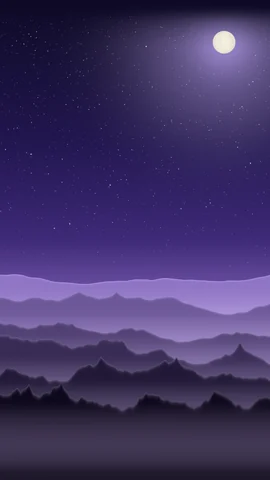
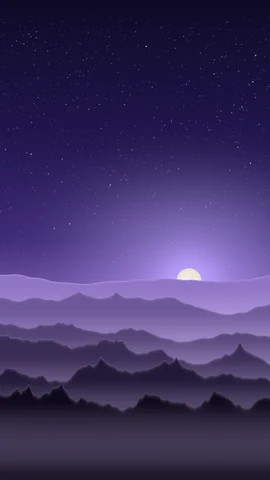
Version 2.2.7 (54): no white line while scrolling home; calm tops for Nebula and Owl Night
- The bars slide away as one animation and the page as another, so for
  a frame the row between them was only partly covered and the light
  window background showed through - a white hairline over a dark
  wallpaper. What is behind them now takes the top bar's colour.
- Nebula's clouds fade out toward the top, into plain space, so the bar
  takes the sky's own near-black instead of a purple slab. Owl Night's
  moon now rises behind the far ridge, below every word on home; the sky
  above it is plain. Edge colours are the median of the top rows, so
  stars do not tint them.
- See all on dark wallpapers is white with a soft shadow; every word on
  every wallpaper measured at 3.2:1 or better against what is behind it.

Claude-Session: https://claude.ai/code/session_012jyd5igvHmmReTAELHUnRC

Changed region(s): [[0.4148, 0.0, 1.0, 0.3125], [0.2963, 0.375, 1.0, 0.5938]]

diff --git a/app/src/main/java/com/search/browser/MainActivityBars.kt b/app/src/main/java/com/search/browser/MainActivityBars.kt
@@ -448,6 +448,11 @@ internal fun MainActivity.plainBars(url: String?, animate: Boolean) {
     setBarTint(w?.get(0), w?.get(1), animate)
 }
 
+/** Behind the bars when they wear no page's colours: Night Owl's wash, else the theme's background. */
+internal fun MainActivity.rootBackdrop(): Int =
+    if (nightOwl) binding.topBar.surfaceColor
+    else android.util.TypedValue().also { theme.resolveAttribute(android.R.attr.colorBackground, it, true) }.data
+
 /** Eases both bars to [top] / [bottom] (null: their plain surface). */
 internal fun MainActivity.setBarTint(top: IntArray?, bottom: IntArray?, animate: Boolean) {
     if (top?.contentEquals(topTint) ?: (topTint == null) &&
@@ -461,6 +466,12 @@ internal fun MainActivity.setBarTint(top: IntArray?, bottom: IntArray?, animate:
     val toBottom = bottom ?: plainBottom
     topTint = top
     bottomTint = bottom
+    // What shows through the seam while the top bar and the page slide apart.
+    // hideBars and showBars move them as two animations, so for a frame the
+    // row between them is only partly covered, and whatever is behind both
+    // shows through: the window's light grey, a white hairline over a dark
+    // wallpaper. Behind them now is the bar's own colour.
+    binding.rootView.setBackgroundColor(top?.get(1) ?: rootBackdrop())
     applyBarForeground()
     if (!animate || !animationsOn()) {
         binding.topBar.tint = top

diff --git a/app/src/main/assets/home.html b/app/src/main/assets/home.html
@@ -732,7 +732,7 @@
   html.wp-dark .shield b, html.wp-dark .sec-title h2 { color:#FFFFFF; }
   html.wp-light .shield b, html.wp-light .sec-title h2 { color:#16151B; }
   html.wp-dark .sec-title h2 { text-shadow:0 1px 3px rgba(0,0,0,0.5); }
-  html.wp-dark .see-all { color:rgba(255,255,255,0.92); }
+  html.wp-dark .see-all { color:#FFFFFF; text-shadow:0 1px 3px rgba(0,0,0,0.5); }
   html.wp-light .see-all { color:var(--ink-l); }
   html.wp-dark .tile .fav:not(.has-icon) { background:rgba(255,255,255,0.14); color:#FFFFFF; }
   html.wp-light .tile .fav:not(.has-icon) { background:rgba(255,255,255,0.6); }

diff --git a/app/src/main/java/com/search/browser/HomeWallpapers.kt b/app/src/main/java/com/search/browser/HomeWallpapers.kt
@@ -31,7 +31,7 @@ object HomeWallpapers {
         Wallpaper("ocean_dusk", "Ocean Dusk", true, 0xFF1A1238.toInt(), 0xFF251C27.toInt()),
         Wallpaper("aurora", "Aurora", true, 0xFF040916.toInt(), 0xFF092723.toInt()),
         Wallpaper("bokeh", "City Lights", true, 0xFF0C081A.toInt(), 0xFF180E30.toInt()),
-        Wallpaper("nebula", "Nebula", true, 0xFF39234E.toInt(), 0xFF3A3069.toInt())
+        Wallpaper("nebula", "Nebula", true, 0xFF020205.toInt(), 0xFF403372.toInt())
     )
 
     fun byId(id: String?): Wallpaper? = ALL.firstOrNull { it.id == id }

diff --git a/design/wallpapers/scenes.py b/design/wallpapers/scenes.py
@@ -27,8 +27,8 @@ def mountains(c, img, layers, seed, haze, near, fog, v0, dv, amp0, damp, f0, df,
 
 def owl_night(c):
     img = ramp(c.v, [(0, '#0E0A26'), (0.3, '#221650'), (0.5, '#3E2A78'), (0.62, '#7456A8'), (0.7, '#A487CC')])
-    mx, my, mr = 0.83, 0.088, 0.042
-    img = img + hexlin('#B9A2F0') * ((0.32 * glow(c, mx, my, 0.20) + 0.32 * glow(c, mx, my, 0.07)) * smooth(0.0, 0.11, c.v))[..., None]
+    mx, my, mr = 0.70, 0.585, 0.046
+    img = img + hexlin('#B9A2F0') * ((0.45 * glow(c, mx, my, 0.24) + 0.4 * glow(c, mx, my, 0.08)) * smooth(0.22, 0.5, c.v))[..., None]
     sky_mask = 1 - smooth(0.42, 0.64, c.v)
     d = np.sqrt(((c.u - mx)) ** 2 + ((c.v - my) * c.aspect) ** 2)
     img = stars(c, img, int(2600 * c.s * c.s), 0.62, 11, mag=(0.04, 1.1), mask=sky_mask * smooth(mr * 1.6, mr * 3.5, d) * smooth(0.02, 0.07, c.v))
@@ -223,7 +223,7 @@ def nebula(c):
     n1 = fbm(Perlin(102), wx * 2.5, wy * 2.5, 6) * 0.5 + 0.5
     n2 = fbm(Perlin(103), wx * 4.0 + 3, wy * 4.0, 5) * 0.5 + 0.5
     img = ramp(c.v, [(0, '#03030A'), (0.5, '#070514'), (1, '#04030C')])
-    band = np.exp(-((c.u - 0.3 - 0.35 * c.v) ** 2) / 0.08)
+    band = np.exp(-((c.u - 0.3 - 0.35 * c.v) ** 2) / 0.08) * smooth(0.05, 0.3, c.v)
     fil = (1 - np.abs(fbm(Perlin(108), wx * 6, wy * 6, 5))) ** 6
     img = img + hexlin('#6A3BD1') * (smooth(0.45, 0.85, n1) ** 1.5 * band * 1.1)[..., None]
     img = img + hexlin('#C77DFF') * (fil * smooth(0.4, 0.8, n1) * band * 0.9)[..., None]

diff --git a/design/wallpapers/wplib.py b/design/wallpapers/wplib.py
@@ -88,7 +88,7 @@ def edges(c, img, top_band=0.05, bottom_band=0.04):
     """Top and bottom rows become flat colours (the bars' colours), eased in, so the bars meet the page without a seam
     whatever the crop. Returns the image and the two colours as #hex."""
     ti = int(top_band * c.H); bi = int((1 - bottom_band) * c.H)
-    top = img[:3].reshape(-1, 3).mean(0); bot = img[-3:].reshape(-1, 3).mean(0)
+    top = np.median(img[:3].reshape(-1, 3), 0); bot = np.median(img[-3:].reshape(-1, 3), 0)   # median: a star is not the sky
     wt = 1 - smooth(0.0, top_band, c.v); wb = smooth(1 - bottom_band, 1.0, c.v)
     img = over(img, top, wt); img = over(img, bot, wb)
     tohex = lambda l: '#%02X%02X%02X' % tuple(int(round(float(x) * 255)) for x in l2s(l))

diff --git a/HANDOFF.md b/HANDOFF.md
@@ -2,9 +2,10 @@
 
 Internal working notes. Not user-facing. Keep updated as state changes.
 
-## Current state (as of versionCode 53)
+## Current state (as of versionCode 54)
 
-- **Latest version:** 2.2.6, versionCode 53. Since 2.2.5 (52): home wallpapers. Settings > Customize your Search > Wallpaper: Plain (home's own background, the default) or one of eight scenes - Owl Night, Dawn Hills, Above the Clouds, Silk, Ocean Dusk, Aurora, City Lights, Nebula - rendered from code at 4K (`design/wallpapers`: numpy, OKLab gradients, fractal noise, atmospheric perspective; no AI). Shipped in `assets/wallpapers` as WebP: 2160x3840, 1440x2560 and a 270x480 thumbnail each (3.8 MB in all; AAB 8.7 -> 12.7 MB). WebP bands 8-bit gradients, so each file carries a soft grain (sigma 1.3, 1px) that survives the encoder - none in the flat top/bottom bands. `HomeWallpapers` is the registry (id, name, tone, top and bottom colours); `Settings.HOME_WALLPAPER` ("none" default); getConfig `wallpaper`; `homeWash` gives the bars the wallpaper's flat edge colours in every mode (seam <= 3 levels, measured); `applyAccentTints` pushes `__setWallpaper` on resume so an open home takes a new choice at once; home.html also re-reads it in `syncMode`. home.html: `html.wp` lays the image fixed behind the page (cover, anchored top), in Explore, Focus and Zen; Night Owl keeps its sky; the wash and Zen's drifting lights are off on a wallpaper, Zen's frosted box and halo stay. Words on the wallpaper follow its tone, not the phone's theme (`wp-dark`/`wp-light`: wordmark, tile labels, Blocked this week, Top Stories, See all, letter tiles, Add tile, Zen's box). The page picks the 1440 file when the screen's long side is <= 2816 device px (a low-end phone decodes 15 MB, not 33). Contrast of every on-wallpaper word measured against the real pixels: >= 3.28:1 everywhere (most 5-16). Picker in SectionActivity.buildWallpapers (thumbnails, accent ring on the one in use).
+- **Latest version:** 2.2.7, versionCode 54. Since 2.2.6 (53): (1) A white hairline between the top bar and home while scrolling: hideBars/showBars slide the bar and the page as two animations, so for a frame the row between them is only partly covered and the root's background showed through - the theme's light grey, invisible on the old grey home, a white line over a dark wallpaper. `setBarTint` now paints `rootView` in the top bar's middle colour (`rootBackdrop()` when the bars are plain: Night Owl's wash or colorBackground). (2) Nebula and Owl Night's tops: the flat top colour (the bars' colour) was the mean of a busy top row - Nebula's purple clouds, a navy that stepped into Owl Night's moon glow. Nebula's clouds now fade out toward the top (plain space, bar #020205); Owl Night's moon rises behind the far ridge (0.70, 0.585), its light kept low, so the sky above is plain and nothing sits behind home's words. `edges()` takes the median, not the mean (a star is not the sky). Dark wallpapers' See all is white with a shadow. Re-measured: all 32 text checks >= 3.23:1; seams <= 3 levels; 48 renders clean.
+- **Previous:** 2.2.6, versionCode 53. Since 2.2.5 (52): home wallpapers. Settings > Customize your Search > Wallpaper: Plain (home's own background, the default) or one of eight scenes - Owl Night, Dawn Hills, Above the Clouds, Silk, Ocean Dusk, Aurora, City Lights, Nebula - rendered from code at 4K (`design/wallpapers`: numpy, OKLab gradients, fractal noise, atmospheric perspective; no AI). Shipped in `assets/wallpapers` as WebP: 2160x3840, 1440x2560 and a 270x480 thumbnail each (3.8 MB in all; AAB 8.7 -> 12.7 MB). WebP bands 8-bit gradients, so each file carries a soft grain (sigma 1.3, 1px) that survives the encoder - none in the flat top/bottom bands. `HomeWallpapers` is the registry (id, name, tone, top and bottom colours); `Settings.HOME_WALLPAPER` ("none" default); getConfig `wallpaper`; `homeWash` gives the bars the wallpaper's flat edge colours in every mode (seam <= 3 levels, measured); `applyAccentTints` pushes `__setWallpaper` on resume so an open home takes a new choice at once; home.html also re-reads it in `syncMode`. home.html: `html.wp` lays the image fixed behind the page (cover, anchored top), in Explore, Focus and Zen; Night Owl keeps its sky; the wash and Zen's drifting lights are off on a wallpaper, Zen's frosted box and halo stay. Words on the wallpaper follow its tone, not the phone's theme (`wp-dark`/`wp-light`: wordmark, tile labels, Blocked this week, Top Stories, See all, letter tiles, Add tile, Zen's box). The page picks the 1440 file when the screen's long side is <= 2816 device px (a low-end phone decodes 15 MB, not 33). Contrast of every on-wallpaper word measured against the real pixels: >= 3.28:1 everywhere (most 5-16). Picker in SectionActivity.buildWallpapers (thumbnails, accent ring on the one in use).
 - **Previous:** 2.2.5, versionCode 52. Since 2.2.4 (51), no user-visible change - the build and the code's shape: (1) `MainActivity.kt` split (11,366 -> 5,787 lines): 254 feature functions moved verbatim into twelve `MainActivity<Area>.kt` files as extension functions (see Config / references, "Where the code lives"); moved code needed only Context's inherited constants spelled out (`android.content.Context.DOWNLOAD_SERVICE` etc., 15 places). All 112 ad-section members byte-identical; compiler warnings identical before and after; no extension shadowed by a member. (2) AGP 8.9.1 -> 8.13.2, Gradle 8.11.1 -> 8.14.3: R8's "error occurred when parsing kotlin metadata" warnings 20 -> 0 (8.13.0 still had 20; 8.13.2's R8 reads Kotlin 2.3). AGP 9.x (9.4.1 current) is a separate migration: built-in Kotlin replaces the kotlin-android plugin. (3) Lint: `abortOnError` and `checkReleaseBuilds` on; the nine existing errors were false alarms, now marked precisely (RequiresApi on onRenderProcessGone, targetApi on clipToOutline/forceDarkAllowed, SuppressLint on the API-34-gated tile call, ignore UseAppTint); 0 errors, 514 warnings. (4) CI on GitHub Actions (`.github/workflows/android.yml`). Verified locally and on CI: lintRelease, assembleRelease, bundleRelease.
 - **Previous:** 2.2.4, versionCode 51. Since 2.2.3 (50), from a low-end layout probe (home at 320x568, 360x640, 360x780, 412x915 and 640x360 landscape; explore/focus/zen; text at 100/120/150% - Settings > Text size sets the home WebView's textZoom, which scales font sizes but not px line heights; checks for sideways scroll, off-screen boxes, clipped text, overlapping blocks, JS errors): two bugs, both at Large/Extra large text - the search box's hint (`.fhint`, 22px box) clipped from 120% in Zen and 150% elsewhere, and tile labels (`.lbl`, line-height 15px) clipped at 150%. Both now in em/unitless units equal to the old px at 100% (hint 1.3333em, label 1.25). Flex `gap` (Chrome 84+) replaced by margins where a WebView that never updated would set pieces touching: home's Top story tag, skeleton meta, Jump back in, Blocked this week; supporter tiers; saved page badge (its footer keeps gap: it wraps and can hide a button). After: 45/45 probe runs clean; home (explore skeleton/stories, focus, zen; light/dark), supporter and saved pixel-identical to before at 100%. Other asset pages clean at 320px/150% with long URLs. All asset scripts parse as ES5. Native layouts: nothing wider than 272dp fixed.
 - **Previous:** 2.2.3, versionCode 50. Since 2.2.2 (49): Focus and Zen's wash is a colour system, not a table. `HomeWash` no longer holds hand-picked hex per accent (OKLCH audit of the old ones: top-left lightness 0.85-0.91, companion hue offsets +135/-78/-44/-62/-60/-15 degrees, Purple's dark companion L0.47 C0.09 h55 = brown). Every colour is now a role (OKLCH lightness, chroma scaled by the accent's own chroma `k` = C/0.16 clamped 0.6-1.15) on one hue arc: the accent and a companion 55 degrees toward the owl's amber (60 degrees) - Purple->pink, Blue->violet, Green->lime, Amber->rose, Rose->apricot; accents with C<0.04 (Ink, greys) take steel 265. Light: top v/m/a at L .885/.915/.920 (accent, arc middle, companion), new `field` (JSON `f`, L .938) the sky opens into, bottom L .905, glows .80/.87/.72. Dark: half the arc (30 degrees), turned away from hues that go brown/olive when dark (35-130 degrees); those keep near-neutral grounds (chroma x0.35) and lifted lights (L .66) - charcoal and gold, not brown. Gamut mapping lowers chroma only. Ported with the Python prototype line by line; checked on the JVM (HomeWash compiled from the app source): 144/144 colours identical across 9 accents. home.html: `--wash-f` (applyWashVars `f`); the sky is the bars' 3-stop top edge, the field rising over it on an eased curve within the first third (no curtain stripes) and deepening to b, plus Focus's two lights (accent bloom behind the search, companion light right; `--bloom-a`/`--light-a`, stronger on dark). Seam vs the bars' gradient <= 1 level on every accent/mode/scheme. ModeCards' preview uses the same field curve. Zen motion: the glows ran washIn and their drift both on opacity, which sends every animation on the layer to the main thread (Chromium: 180 style recalcs in 3 s, i.e. every frame); now opacity is washIn's alone and drift is transform/translate/scale on separate clocks (11 recalcs in 3 s, compositor), travel ~2% of the screen per second with negative delays (opens mid-motion), halo breathes 5 s; still in html.still and reduced motion. Frame change per 4 s: light ~2x, dark ~5x the old. Shortcut tiles calmer, after Samsung Internet's quick access: plate 44px (was 48, radius 14), hairline 0.5px and a 1px shadow instead of the 6/14px drop, label 12px, row gap 20px, Add tile a quiet well (`--press`, muted plus, no visible label; aria-label stays).
